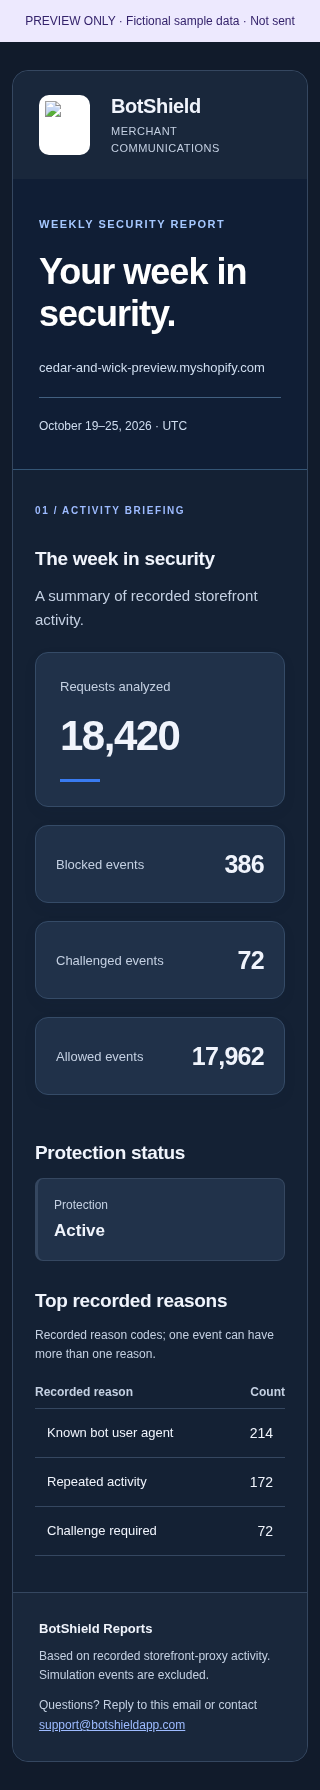
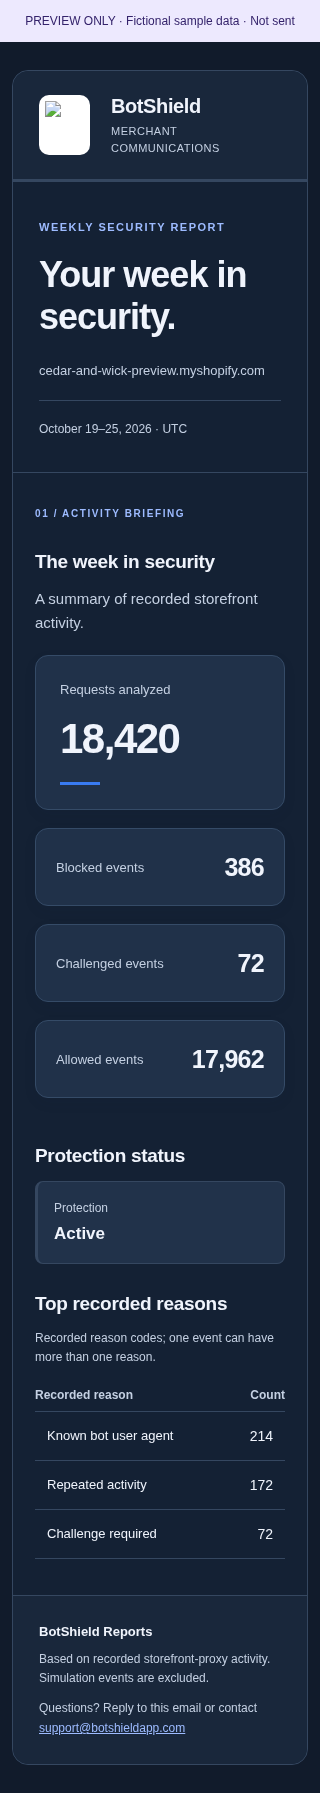
Fix email hero contrast with paired solid-color surfaces

diff --git a/docs/email-previews/weekly.html b/docs/email-previews/weekly.html
@@ -1,15 +1,15 @@
 <!doctype html>
 <html lang="en"><head><meta charset="utf-8"><meta name="viewport" content="width=device-width, initial-scale=1"><meta name="color-scheme" content="light dark"><meta name="supported-color-schemes" content="light dark"><title>Weekly Security Report | BotShield</title>
-<style>@media (prefers-color-scheme:dark){.bs-page{background-color:#111b2b!important}.bs-surface{background-color:#19273b!important}.bs-panel{background-color:#21324a!important}.bs-ink{color:#f0f4fc!important}.bs-muted{color:#c4d0e2!important}.bs-link{color:#9dbbff!important}.bs-pill{background-color:#293d59!important;color:#edf3ff!important}.bs-surface,.bs-panel,.bs-ink,.bs-muted{border-color:#354760!important}.bs-logo{background-color:#ffffff!important}.bs-report,.bs-intro{background-color:#142134!important}.bs-card{background-color:#203149!important;border-color:#354b67!important}.bs-hero{background-color:#101e35!important;background-image:none!important}.bs-hero-title{color:#ffffff!important}.bs-hero-copy{color:#d0def0!important}.bs-hero-label{color:#a6c8ff!important}.bs-severity-high{background-color:#492b30!important;color:#ffd9d3!important}.bs-severity-medium{background-color:#403619!important;color:#ffe4a3!important}.bs-severity-low{background-color:#223b5e!important;color:#d9e6ff!important}}</style></head>
+<style>@media (prefers-color-scheme:dark){.bs-page{background-color:#111b2b!important}.bs-surface{background-color:#19273b!important}.bs-panel{background-color:#21324a!important}.bs-ink{color:#f0f4fc!important}.bs-muted{color:#c4d0e2!important}.bs-link{color:#9dbbff!important}.bs-pill{background-color:#293d59!important;color:#edf3ff!important}.bs-surface,.bs-panel,.bs-ink,.bs-muted{border-color:#354760!important}.bs-logo{background-color:#ffffff!important}.bs-report,.bs-intro{background-color:#142134!important}.bs-card{background-color:#203149!important;border-color:#354b67!important}.bs-hero{background-color:#142134!important;border-color:#354760!important}.bs-severity-high{background-color:#492b30!important;color:#ffd9d3!important}.bs-severity-medium{background-color:#403619!important;color:#ffe4a3!important}.bs-severity-low{background-color:#223b5e!important;color:#d9e6ff!important}}</style></head>
 <body class="bs-page" style="margin:0;padding:0;background-color:#f3f6fa;font-family:Arial,Helvetica,sans-serif;-webkit-text-size-adjust:100%;-ms-text-size-adjust:100%;"><table role="presentation" width="100%" cellpadding="0" cellspacing="0"><tr><td align="center" style="padding:12px;background-color:#ede9fe;color:#34236b;font:12px/18px Arial,sans-serif;">PREVIEW ONLY · Fictional sample data · Not sent</td></tr></table>
 <div style="display:none;max-height:0;overflow:hidden;mso-hide:all;">Your recorded storefront activity, protection status, and top recorded reasons.</div>
 <table role="presentation" width="100%" cellpadding="0" cellspacing="0" bgcolor="#f3f6fa" class="bs-page" style="width:100%;border-collapse:collapse;"><tr><td align="center" style="padding:28px 12px;">
 <!--[if mso]><table role="presentation" width="620" cellpadding="0" cellspacing="0"><tr><td><![endif]-->
 <table role="presentation" width="100%" cellpadding="0" cellspacing="0" class="bs-surface" bgcolor="#ffffff" data-email-template="weekly" style="width:100%;max-width:620px;table-layout:fixed;border:1px solid #e0e7f0;border-radius:16px;border-collapse:separate;">
 <tr><td class="bs-surface" bgcolor="#ffffff" style="padding:22px 26px;border-radius:16px 16px 0 0;"><table role="presentation" width="100%" cellpadding="0" cellspacing="0" style="width:100%;table-layout:fixed;"><tr><td width="60" valign="middle"><table role="presentation" cellpadding="0" cellspacing="0"><tr><td class="bs-logo" bgcolor="#ffffff" style="padding:6px;border-radius:10px;"><img src="https://botshield-backend.onrender.com/botshield-official-logo-transparent.png" width="39" height="48" alt="BotShield logo" style="display:block;width:39px;height:48px;border:0;"></td></tr></table></td><td valign="middle" style="padding-left:12px;word-wrap:break-word;overflow-wrap:anywhere;word-break:break-word;"><p class="bs-ink" style="margin:0;font-family:Arial,Helvetica,sans-serif;font-size:20px;line-height:26px;font-weight:bold;letter-spacing:-0.4px;color:#172b49;">BotShield</p><p class="bs-muted" style="margin:4px 0 0;font-family:Arial,Helvetica,sans-serif;font-size:11px;line-height:17px;letter-spacing:0.5px;color:#53647c;">MERCHANT COMMUNICATIONS</p></td></tr></table></td></tr>
-<tr><td class="bs-hero" bgcolor="#101e35" style="padding:36px 26px 32px;background-image:linear-gradient(125deg,#101e35 25%,#183a61 100%);border-bottom:1px solid #345575;word-wrap:break-word;overflow-wrap:anywhere;word-break:break-word;"><p class="bs-hero-label" style="margin:0 0 18px;font-family:Arial,Helvetica,sans-serif;font-size:11px;line-height:18px;font-weight:bold;letter-spacing:1.5px;color:#a6c8ff;text-transform:uppercase;">Weekly Security Report</p><h1 class="bs-hero-title" style="margin:0 0 22px;font-family:Arial,Helvetica,sans-serif;font-size:36px;line-height:42px;letter-spacing:-1px;color:#ffffff;word-wrap:break-word;overflow-wrap:anywhere;word-break:break-word;">Your week in security.</h1>
-<p class="bs-hero-copy" style="margin:0;font-family:Arial,Helvetica,sans-serif;font-size:13px;line-height:22px;color:#d0def0;word-wrap:break-word;overflow-wrap:anywhere;word-break:break-word;">cedar-and-wick-preview.myshopify.com</p>
-<p class="bs-hero-copy" style="margin:18px 0 0;padding-top:18px;border-top:1px solid #426080;font-family:Arial,Helvetica,sans-serif;font-size:12px;line-height:21px;color:#d0def0;word-wrap:break-word;overflow-wrap:anywhere;word-break:break-word;">October 19–25, 2026 · UTC</p></td></tr>
+<tr><td class="bs-hero" bgcolor="#f1f4f8" style="padding:36px 26px 32px;background-color:#f1f4f8;border-top:3px solid #397bf1;border-bottom:1px solid #e5eaf1;word-wrap:break-word;overflow-wrap:anywhere;word-break:break-word;"><p class="bs-link" style="margin:0 0 18px;font-family:Arial,Helvetica,sans-serif;font-size:11px;line-height:18px;font-weight:bold;letter-spacing:1.5px;color:#245bdb;text-transform:uppercase;">Weekly Security Report</p><h1 class="bs-ink" style="margin:0 0 22px;font-family:Arial,Helvetica,sans-serif;font-size:36px;line-height:42px;letter-spacing:-1px;color:#172b49;word-wrap:break-word;overflow-wrap:anywhere;word-break:break-word;">Your week in security.</h1>
+<p class="bs-muted" style="margin:0;font-family:Arial,Helvetica,sans-serif;font-size:13px;line-height:22px;color:#53647c;word-wrap:break-word;overflow-wrap:anywhere;word-break:break-word;">cedar-and-wick-preview.myshopify.com</p>
+<p class="bs-muted" style="margin:18px 0 0;padding-top:18px;border-top:1px solid #d6dfeb;font-family:Arial,Helvetica,sans-serif;font-size:12px;line-height:21px;color:#53647c;word-wrap:break-word;overflow-wrap:anywhere;word-break:break-word;">October 19–25, 2026 · UTC</p></td></tr>
 <tr><td class="bs-report" bgcolor="#f1f4f8" style="padding:32px 22px 36px;word-wrap:break-word;overflow-wrap:anywhere;word-break:break-word;">
 <p class="bs-link" style="margin:0 0 10px;font-family:Arial,Helvetica,sans-serif;font-size:10px;line-height:17px;letter-spacing:1.6px;font-weight:bold;color:#245bdb;">01 / ACTIVITY BRIEFING</p><h2 class="bs-ink" style="margin:26px 0 12px;font-family:Arial,Helvetica,sans-serif;font-size:19px;line-height:27px;letter-spacing:-0.3px;color:#172b49;">The week in security</h2><p class="bs-muted" style="margin:0 0 20px;font-family:Arial,Helvetica,sans-serif;font-size:15px;line-height:24px;color:#53647c;word-wrap:break-word;overflow-wrap:anywhere;word-break:break-word;">A summary of recorded storefront activity.</p><table role="presentation" width="100%" cellpadding="0" cellspacing="0" style="width:100%;table-layout:fixed;border-collapse:collapse;"><tr><td style="padding:0 0 18px;"><table data-metric="Requests analyzed" role="presentation" width="100%" cellpadding="0" cellspacing="0" class="bs-card" bgcolor="#ffffff" style="width:100%;table-layout:fixed;border:1px solid #e1e7ef;border-radius:13px;box-shadow:0 5px 14px rgba(20,42,72,0.06);border-collapse:separate;"><tr><td style="padding:24px;word-wrap:break-word;overflow-wrap:anywhere;word-break:break-word;"><p class="bs-muted" style="margin:0 0 14px;font-family:Arial,Helvetica,sans-serif;font-size:13px;line-height:20px;color:#53647c;">Requests analyzed</p><p class="bs-ink" style="margin:0;font-family:Arial,Helvetica,sans-serif;font-size:42px;line-height:50px;font-weight:bold;letter-spacing:-1.5px;color:#172b49;word-break:break-all;">18,420</p><table role="presentation" width="40" cellpadding="0" cellspacing="0" style="width:40px;margin-top:18px;"><tr><td height="3" bgcolor="#397bf1" style="height:3px;font-size:0;line-height:0;">&nbsp;</td></tr></table></td></tr></table></td></tr><tr><td style="padding:0 0 18px;"><table data-metric="Blocked events" role="presentation" width="100%" cellpadding="0" cellspacing="0" class="bs-card" bgcolor="#ffffff" style="width:100%;table-layout:fixed;border:1px solid #e1e7ef;border-radius:13px;box-shadow:0 5px 14px rgba(20,42,72,0.06);border-collapse:separate;"><tr><td width="47%" valign="middle" style="padding:22px 8px 22px 20px;word-wrap:break-word;overflow-wrap:anywhere;word-break:break-word;"><p class="bs-muted" style="margin:0;font-family:Arial,Helvetica,sans-serif;font-size:13px;line-height:21px;color:#53647c;">Blocked events</p></td><td valign="middle" align="right" style="padding:22px 20px 22px 4px;word-wrap:break-word;overflow-wrap:anywhere;word-break:break-word;"><p class="bs-ink" style="margin:0;font-family:Arial,Helvetica,sans-serif;font-size:25px;line-height:32px;font-weight:bold;letter-spacing:-0.7px;color:#172b49;word-break:break-all;">386</p></td></tr></table></td></tr><tr><td style="padding:0 0 18px;"><table data-metric="Challenged events" role="presentation" width="100%" cellpadding="0" cellspacing="0" class="bs-card" bgcolor="#ffffff" style="width:100%;table-layout:fixed;border:1px solid #e1e7ef;border-radius:13px;box-shadow:0 5px 14px rgba(20,42,72,0.06);border-collapse:separate;"><tr><td width="47%" valign="middle" style="padding:22px 8px 22px 20px;word-wrap:break-word;overflow-wrap:anywhere;word-break:break-word;"><p class="bs-muted" style="margin:0;font-family:Arial,Helvetica,sans-serif;font-size:13px;line-height:21px;color:#53647c;">Challenged events</p></td><td valign="middle" align="right" style="padding:22px 20px 22px 4px;word-wrap:break-word;overflow-wrap:anywhere;word-break:break-word;"><p class="bs-ink" style="margin:0;font-family:Arial,Helvetica,sans-serif;font-size:25px;line-height:32px;font-weight:bold;letter-spacing:-0.7px;color:#172b49;word-break:break-all;">72</p></td></tr></table></td></tr><tr><td style="padding:0 0 18px;"><table data-metric="Allowed events" role="presentation" width="100%" cellpadding="0" cellspacing="0" class="bs-card" bgcolor="#ffffff" style="width:100%;table-layout:fixed;border:1px solid #e1e7ef;border-radius:13px;box-shadow:0 5px 14px rgba(20,42,72,0.06);border-collapse:separate;"><tr><td width="47%" valign="middle" style="padding:22px 8px 22px 20px;word-wrap:break-word;overflow-wrap:anywhere;word-break:break-word;"><p class="bs-muted" style="margin:0;font-family:Arial,Helvetica,sans-serif;font-size:13px;line-height:21px;color:#53647c;">Allowed events</p></td><td valign="middle" align="right" style="padding:22px 20px 22px 4px;word-wrap:break-word;overflow-wrap:anywhere;word-break:break-word;"><p class="bs-ink" style="margin:0;font-family:Arial,Helvetica,sans-serif;font-size:25px;line-height:32px;font-weight:bold;letter-spacing:-0.7px;color:#172b49;word-break:break-all;">17,962</p></td></tr></table></td></tr></table><h2 class="bs-ink" style="margin:26px 0 12px;font-family:Arial,Helvetica,sans-serif;font-size:19px;line-height:27px;letter-spacing:-0.3px;color:#172b49;">Protection status</h2><table role="presentation" width="100%" cellpadding="0" cellspacing="0" class="bs-panel" bgcolor="#ffffff" style="width:100%;border:1px solid #e1e7ef;border-left:3px solid #138575;border-radius:8px;"><tr><td style="padding:17px 16px;"><p class="bs-muted" style="margin:0 0 5px;font-family:Arial,Helvetica,sans-serif;font-size:12px;line-height:18px;color:#53647c;">Protection</p><p class="bs-ink" style="margin:0;font-family:Arial,Helvetica,sans-serif;font-size:17px;line-height:24px;font-weight:bold;color:#172b49;">Active</p></td></tr></table><h2 class="bs-ink" style="margin:26px 0 12px;font-family:Arial,Helvetica,sans-serif;font-size:19px;line-height:27px;letter-spacing:-0.3px;color:#172b49;">Top recorded reasons</h2><table width="100%" cellpadding="0" cellspacing="0" style="width:100%;table-layout:fixed;border-collapse:collapse;"><caption class="bs-muted" style="text-align:left;padding-bottom:12px;font-family:Arial,Helvetica,sans-serif;font-size:12px;line-height:19px;color:#53647c;">Recorded reason codes; one event can have more than one reason.</caption><thead><tr><th class="bs-muted" align="left" scope="col" style="padding:9px 0;border-bottom:1px solid #e5eaf1;font-family:Arial,Helvetica,sans-serif;font-size:12px;color:#53647c;">Recorded reason</th><th class="bs-muted" align="right" width="70" scope="col" style="padding:9px 0;border-bottom:1px solid #e5eaf1;font-family:Arial,Helvetica,sans-serif;font-size:12px;color:#53647c;">Count</th></tr></thead><tbody><tr><td class="bs-ink" style="padding:14px 12px;border-bottom:1px solid #e5eaf1;font-family:Arial,Helvetica,sans-serif;font-size:13px;line-height:20px;color:#172b49;word-wrap:break-word;overflow-wrap:anywhere;word-break:break-word;">Known bot user agent</td><td class="bs-ink" align="right" style="padding:14px 12px;border-bottom:1px solid #e5eaf1;font-family:Arial,Helvetica,sans-serif;font-size:14px;color:#172b49;word-break:break-all;">214</td></tr><tr><td class="bs-ink" style="padding:14px 12px;border-bottom:1px solid #e5eaf1;font-family:Arial,Helvetica,sans-serif;font-size:13px;line-height:20px;color:#172b49;word-wrap:break-word;overflow-wrap:anywhere;word-break:break-word;">Repeated activity</td><td class="bs-ink" align="right" style="padding:14px 12px;border-bottom:1px solid #e5eaf1;font-family:Arial,Helvetica,sans-serif;font-size:14px;color:#172b49;word-break:break-all;">172</td></tr><tr><td class="bs-ink" style="padding:14px 12px;border-bottom:1px solid #e5eaf1;font-family:Arial,Helvetica,sans-serif;font-size:13px;line-height:20px;color:#172b49;word-wrap:break-word;overflow-wrap:anywhere;word-break:break-word;">Challenge required</td><td class="bs-ink" align="right" style="padding:14px 12px;border-bottom:1px solid #e5eaf1;font-family:Arial,Helvetica,sans-serif;font-size:14px;color:#172b49;word-break:break-all;">72</td></tr></tbody></table></td></tr>
 <tr><td class="bs-surface" bgcolor="#ffffff" style="padding:26px;border-top:1px solid #e1e7ef;border-radius:0 0 16px 16px;word-wrap:break-word;overflow-wrap:anywhere;word-break:break-word;"><p class="bs-ink" style="margin:0 0 8px;font-family:Arial,Helvetica,sans-serif;font-size:13px;line-height:20px;font-weight:bold;color:#172b49;">BotShield Reports</p><p class="bs-muted" style="margin:0 0 10px;font-family:Arial,Helvetica,sans-serif;font-size:12px;line-height:19px;color:#53647c;">Based on recorded storefront-proxy activity. Simulation events are excluded.</p><p class="bs-muted" style="margin:0;font-family:Arial,Helvetica,sans-serif;font-size:12px;line-height:20px;color:#53647c;">Questions? Reply to this email or contact<br><a class="bs-link" href="mailto:support@botshieldapp.com" style="color:#245bdb;text-decoration:underline;">support@botshieldapp.com</a></p></td></tr></table>

diff --git a/app/lib/merchant-email-templates.js b/app/lib/merchant-email-templates.js
@@ -55,7 +55,7 @@ function reportPeriod(start, end) {
     return label + " · UTC";
   }
   const stamp = d => new Intl.DateTimeFormat("en-US", { month: "short", day: "numeric", year: "numeric", hour: "2-digit", minute: "2-digit", ...(d.getUTCSeconds() || d.getUTCMilliseconds() ? { second: "2-digit" } : {}), ...(d.getUTCMilliseconds() ? { fractionalSecondDigits: 3 } : {}), hourCycle: "h23", timeZone: "UTC" }).format(d);
-  return `${stamp(a)} – ${stamp(b)} · UTC (cutoff excluded)`;
+  return `${stamp(a)} – ${stamp(b)} · UTC (end time not included)`;
 }
 
 function detailRows(rows) {
@@ -67,12 +67,15 @@ function layout({ kind, label, title, preheader, shop, body, lines, dashboardUrl
   const url = safeDashboardUrl(dashboardUrl);
   const cta = url ? `<table role="presentation" cellpadding="0" cellspacing="0" style="margin-top:28px;"><tr><td bgcolor="#245bdb" style="border-radius:8px;mso-padding-alt:14px 20px;"><a href="${e(url)}" style="display:inline-block;padding:14px 20px;${font}font-size:14px;line-height:20px;font-weight:bold;color:#ffffff;text-decoration:none;">Open BotShield Overview</a></td></tr></table>` : "";
   const weekly = kind === "weekly";
-  const hero = `<tr><td class="${weekly ? "bs-hero" : "bs-intro"}" bgcolor="${weekly ? "#101e35" : "#f7f9fc"}" style="padding:${weekly ? "36px 26px 32px" : "28px 26px"};${weekly ? "background-image:linear-gradient(125deg,#101e35 25%,#183a61 100%);border-bottom:1px solid #345575;" : "border-bottom:1px solid #e5eaf1;"}${wrap}"><p class="${weekly ? "bs-hero-label" : "bs-link"}" style="margin:0 0 18px;${font}font-size:11px;line-height:18px;font-weight:bold;letter-spacing:1.5px;color:${weekly ? "#a6c8ff" : "#245bdb"};text-transform:uppercase;">${e(label)}</p><h1 class="${weekly ? "bs-hero-title" : "bs-ink"}" style="margin:0 0 22px;${font}font-size:${weekly ? "36" : "28"}px;line-height:${weekly ? "42" : "35"}px;letter-spacing:-1px;color:${weekly ? "#ffffff" : ink};${wrap}">${e(title)}</h1>
-${present(shop) ? `<p class="${weekly ? "bs-hero-copy" : "bs-muted"}" style="margin:0;${font}font-size:13px;line-height:22px;color:${weekly ? "#d0def0" : muted};${wrap}">${e(shop)}</p>` : ""}
-${period ? `<p class="bs-hero-copy" style="margin:18px 0 0;padding-top:18px;border-top:1px solid #426080;${font}font-size:12px;line-height:21px;color:#d0def0;${wrap}">${e(period)}</p>` : ""}</td></tr>`;
+  // Avoid gradient/image backgrounds behind live text: forced-color clients may
+  // transform foregrounds while preserving those backgrounds. Use paired solid
+  // surfaces and standard ink/muted classes; never pin hero text to white.
+  const hero = `<tr><td class="${weekly ? "bs-hero" : "bs-intro"}" bgcolor="#f1f4f8" style="padding:${weekly ? "36px 26px 32px" : "28px 26px"};background-color:#f1f4f8;border-top:3px solid #397bf1;border-bottom:1px solid #e5eaf1;${wrap}"><p class="bs-link" style="margin:0 0 18px;${font}font-size:11px;line-height:18px;font-weight:bold;letter-spacing:1.5px;color:#245bdb;text-transform:uppercase;">${e(label)}</p><h1 class="bs-ink" style="margin:0 0 22px;${font}font-size:${weekly ? "36" : "28"}px;line-height:${weekly ? "42" : "35"}px;letter-spacing:-1px;color:${ink};${wrap}">${e(title)}</h1>
+${present(shop) ? `<p class="bs-muted" style="margin:0;${font}font-size:13px;line-height:22px;color:${muted};${wrap}">${e(shop)}</p>` : ""}
+${period ? `<p class="bs-muted" style="margin:18px 0 0;padding-top:18px;border-top:1px solid #d6dfeb;${font}font-size:12px;line-height:21px;color:${muted};${wrap}">${e(period)}</p>` : ""}</td></tr>`;
   const html = `<!doctype html>
 <html lang="en"><head><meta charset="utf-8"><meta name="viewport" content="width=device-width, initial-scale=1"><meta name="color-scheme" content="light dark"><meta name="supported-color-schemes" content="light dark"><title>${e(label)} | BotShield</title>
-<style>@media (prefers-color-scheme:dark){.bs-page{background-color:#111b2b!important}.bs-surface{background-color:#19273b!important}.bs-panel{background-color:#21324a!important}.bs-ink{color:#f0f4fc!important}.bs-muted{color:#c4d0e2!important}.bs-link{color:#9dbbff!important}.bs-pill{background-color:#293d59!important;color:#edf3ff!important}.bs-surface,.bs-panel,.bs-ink,.bs-muted{border-color:#354760!important}.bs-logo{background-color:#ffffff!important}.bs-report,.bs-intro{background-color:#142134!important}.bs-card{background-color:#203149!important;border-color:#354b67!important}.bs-hero{background-color:#101e35!important;background-image:none!important}.bs-hero-title{color:#ffffff!important}.bs-hero-copy{color:#d0def0!important}.bs-hero-label{color:#a6c8ff!important}.bs-severity-high{background-color:#492b30!important;color:#ffd9d3!important}.bs-severity-medium{background-color:#403619!important;color:#ffe4a3!important}.bs-severity-low{background-color:#223b5e!important;color:#d9e6ff!important}}</style></head>
+<style>@media (prefers-color-scheme:dark){.bs-page{background-color:#111b2b!important}.bs-surface{background-color:#19273b!important}.bs-panel{background-color:#21324a!important}.bs-ink{color:#f0f4fc!important}.bs-muted{color:#c4d0e2!important}.bs-link{color:#9dbbff!important}.bs-pill{background-color:#293d59!important;color:#edf3ff!important}.bs-surface,.bs-panel,.bs-ink,.bs-muted{border-color:#354760!important}.bs-logo{background-color:#ffffff!important}.bs-report,.bs-intro{background-color:#142134!important}.bs-card{background-color:#203149!important;border-color:#354b67!important}.bs-hero{background-color:#142134!important;border-color:#354760!important}.bs-severity-high{background-color:#492b30!important;color:#ffd9d3!important}.bs-severity-medium{background-color:#403619!important;color:#ffe4a3!important}.bs-severity-low{background-color:#223b5e!important;color:#d9e6ff!important}}</style></head>
 <body class="bs-page" style="margin:0;padding:0;background-color:#f3f6fa;${font}-webkit-text-size-adjust:100%;-ms-text-size-adjust:100%;">
 <div style="display:none;max-height:0;overflow:hidden;mso-hide:all;">${e(preheader)}</div>
 <table role="presentation" width="100%" cellpadding="0" cellspacing="0" bgcolor="#f3f6fa" class="bs-page" style="width:100%;border-collapse:collapse;"><tr><td align="center" style="padding:28px 12px;">

diff --git a/docs/email-previews/test.html b/docs/email-previews/test.html
@@ -1,13 +1,13 @@
 <!doctype html>
 <html lang="en"><head><meta charset="utf-8"><meta name="viewport" content="width=device-width, initial-scale=1"><meta name="color-scheme" content="light dark"><meta name="supported-color-schemes" content="light dark"><title>Test Notification | BotShield</title>
-<style>@media (prefers-color-scheme:dark){.bs-page{background-color:#111b2b!important}.bs-surface{background-color:#19273b!important}.bs-panel{background-color:#21324a!important}.bs-ink{color:#f0f4fc!important}.bs-muted{color:#c4d0e2!important}.bs-link{color:#9dbbff!important}.bs-pill{background-color:#293d59!important;color:#edf3ff!important}.bs-surface,.bs-panel,.bs-ink,.bs-muted{border-color:#354760!important}.bs-logo{background-color:#ffffff!important}.bs-report,.bs-intro{background-color:#142134!important}.bs-card{background-color:#203149!important;border-color:#354b67!important}.bs-hero{background-color:#101e35!important;background-image:none!important}.bs-hero-title{color:#ffffff!important}.bs-hero-copy{color:#d0def0!important}.bs-hero-label{color:#a6c8ff!important}.bs-severity-high{background-color:#492b30!important;color:#ffd9d3!important}.bs-severity-medium{background-color:#403619!important;color:#ffe4a3!important}.bs-severity-low{background-color:#223b5e!important;color:#d9e6ff!important}}</style></head>
+<style>@media (prefers-color-scheme:dark){.bs-page{background-color:#111b2b!important}.bs-surface{background-color:#19273b!important}.bs-panel{background-color:#21324a!important}.bs-ink{color:#f0f4fc!important}.bs-muted{color:#c4d0e2!important}.bs-link{color:#9dbbff!important}.bs-pill{background-color:#293d59!important;color:#edf3ff!important}.bs-surface,.bs-panel,.bs-ink,.bs-muted{border-color:#354760!important}.bs-logo{background-color:#ffffff!important}.bs-report,.bs-intro{background-color:#142134!important}.bs-card{background-color:#203149!important;border-color:#354b67!important}.bs-hero{background-color:#142134!important;border-color:#354760!important}.bs-severity-high{background-color:#492b30!important;color:#ffd9d3!important}.bs-severity-medium{background-color:#403619!important;color:#ffe4a3!important}.bs-severity-low{background-color:#223b5e!important;color:#d9e6ff!important}}</style></head>
 <body class="bs-page" style="margin:0;padding:0;background-color:#f3f6fa;font-family:Arial,Helvetica,sans-serif;-webkit-text-size-adjust:100%;-ms-text-size-adjust:100%;"><table role="presentation" width="100%" cellpadding="0" cellspacing="0"><tr><td align="center" style="padding:12px;background-color:#ede9fe;color:#34236b;font:12px/18px Arial,sans-serif;">PREVIEW ONLY · Fictional sample data · Not sent</td></tr></table>
 <div style="display:none;max-height:0;overflow:hidden;mso-hide:all;">A test of your BotShield email notifications. No security event is represented.</div>
 <table role="presentation" width="100%" cellpadding="0" cellspacing="0" bgcolor="#f3f6fa" class="bs-page" style="width:100%;border-collapse:collapse;"><tr><td align="center" style="padding:28px 12px;">
 <!--[if mso]><table role="presentation" width="620" cellpadding="0" cellspacing="0"><tr><td><![endif]-->
 <table role="presentation" width="100%" cellpadding="0" cellspacing="0" class="bs-surface" bgcolor="#ffffff" data-email-template="test" style="width:100%;max-width:620px;table-layout:fixed;border:1px solid #e0e7f0;border-radius:16px;border-collapse:separate;">
 <tr><td class="bs-surface" bgcolor="#ffffff" style="padding:22px 26px;border-radius:16px 16px 0 0;"><table role="presentation" width="100%" cellpadding="0" cellspacing="0" style="width:100%;table-layout:fixed;"><tr><td width="60" valign="middle"><table role="presentation" cellpadding="0" cellspacing="0"><tr><td class="bs-logo" bgcolor="#ffffff" style="padding:6px;border-radius:10px;"><img src="https://botshield-backend.onrender.com/botshield-official-logo-transparent.png" width="39" height="48" alt="BotShield logo" style="display:block;width:39px;height:48px;border:0;"></td></tr></table></td><td valign="middle" style="padding-left:12px;word-wrap:break-word;overflow-wrap:anywhere;word-break:break-word;"><p class="bs-ink" style="margin:0;font-family:Arial,Helvetica,sans-serif;font-size:20px;line-height:26px;font-weight:bold;letter-spacing:-0.4px;color:#172b49;">BotShield</p><p class="bs-muted" style="margin:4px 0 0;font-family:Arial,Helvetica,sans-serif;font-size:11px;line-height:17px;letter-spacing:0.5px;color:#53647c;">MERCHANT COMMUNICATIONS</p></td></tr></table></td></tr>
-<tr><td class="bs-intro" bgcolor="#f7f9fc" style="padding:28px 26px;border-bottom:1px solid #e5eaf1;word-wrap:break-word;overflow-wrap:anywhere;word-break:break-word;"><p class="bs-link" style="margin:0 0 18px;font-family:Arial,Helvetica,sans-serif;font-size:11px;line-height:18px;font-weight:bold;letter-spacing:1.5px;color:#245bdb;text-transform:uppercase;">Test Notification</p><h1 class="bs-ink" style="margin:0 0 22px;font-family:Arial,Helvetica,sans-serif;font-size:28px;line-height:35px;letter-spacing:-1px;color:#172b49;word-wrap:break-word;overflow-wrap:anywhere;word-break:break-word;">Your BotShield notifications are working.</h1>
+<tr><td class="bs-intro" bgcolor="#f1f4f8" style="padding:28px 26px;background-color:#f1f4f8;border-top:3px solid #397bf1;border-bottom:1px solid #e5eaf1;word-wrap:break-word;overflow-wrap:anywhere;word-break:break-word;"><p class="bs-link" style="margin:0 0 18px;font-family:Arial,Helvetica,sans-serif;font-size:11px;line-height:18px;font-weight:bold;letter-spacing:1.5px;color:#245bdb;text-transform:uppercase;">Test Notification</p><h1 class="bs-ink" style="margin:0 0 22px;font-family:Arial,Helvetica,sans-serif;font-size:28px;line-height:35px;letter-spacing:-1px;color:#172b49;word-wrap:break-word;overflow-wrap:anywhere;word-break:break-word;">Your BotShield notifications are working.</h1>
 <p class="bs-muted" style="margin:0;font-family:Arial,Helvetica,sans-serif;font-size:13px;line-height:22px;color:#53647c;word-wrap:break-word;overflow-wrap:anywhere;word-break:break-word;">cedar-and-wick-preview.myshopify.com</p>
 </td></tr>
 <tr><td class="bs-surface" bgcolor="#ffffff" style="padding:32px 22px 36px;word-wrap:break-word;overflow-wrap:anywhere;word-break:break-word;">

diff --git a/docs/email-previews/alert.html b/docs/email-previews/alert.html
@@ -1,13 +1,13 @@
 <!doctype html>
 <html lang="en"><head><meta charset="utf-8"><meta name="viewport" content="width=device-width, initial-scale=1"><meta name="color-scheme" content="light dark"><meta name="supported-color-schemes" content="light dark"><title>Security Alert | BotShield</title>
-<style>@media (prefers-color-scheme:dark){.bs-page{background-color:#111b2b!important}.bs-surface{background-color:#19273b!important}.bs-panel{background-color:#21324a!important}.bs-ink{color:#f0f4fc!important}.bs-muted{color:#c4d0e2!important}.bs-link{color:#9dbbff!important}.bs-pill{background-color:#293d59!important;color:#edf3ff!important}.bs-surface,.bs-panel,.bs-ink,.bs-muted{border-color:#354760!important}.bs-logo{background-color:#ffffff!important}.bs-report,.bs-intro{background-color:#142134!important}.bs-card{background-color:#203149!important;border-color:#354b67!important}.bs-hero{background-color:#101e35!important;background-image:none!important}.bs-hero-title{color:#ffffff!important}.bs-hero-copy{color:#d0def0!important}.bs-hero-label{color:#a6c8ff!important}.bs-severity-high{background-color:#492b30!important;color:#ffd9d3!important}.bs-severity-medium{background-color:#403619!important;color:#ffe4a3!important}.bs-severity-low{background-color:#223b5e!important;color:#d9e6ff!important}}</style></head>
+<style>@media (prefers-color-scheme:dark){.bs-page{background-color:#111b2b!important}.bs-surface{background-color:#19273b!important}.bs-panel{background-color:#21324a!important}.bs-ink{color:#f0f4fc!important}.bs-muted{color:#c4d0e2!important}.bs-link{color:#9dbbff!important}.bs-pill{background-color:#293d59!important;color:#edf3ff!important}.bs-surface,.bs-panel,.bs-ink,.bs-muted{border-color:#354760!important}.bs-logo{background-color:#ffffff!important}.bs-report,.bs-intro{background-color:#142134!important}.bs-card{background-color:#203149!important;border-color:#354b67!important}.bs-hero{background-color:#142134!important;border-color:#354760!important}.bs-severity-high{background-color:#492b30!important;color:#ffd9d3!important}.bs-severity-medium{background-color:#403619!important;color:#ffe4a3!important}.bs-severity-low{background-color:#223b5e!important;color:#d9e6ff!important}}</style></head>
 <body class="bs-page" style="margin:0;padding:0;background-color:#f3f6fa;font-family:Arial,Helvetica,sans-serif;-webkit-text-size-adjust:100%;-ms-text-size-adjust:100%;"><table role="presentation" width="100%" cellpadding="0" cellspacing="0"><tr><td align="center" style="padding:12px;background-color:#ede9fe;color:#34236b;font:12px/18px Arial,sans-serif;">PREVIEW ONLY · Fictional sample data · Not sent</td></tr></table>
 <div style="display:none;max-height:0;overflow:hidden;mso-hide:all;">Details of a recorded BotShield storefront decision.</div>
 <table role="presentation" width="100%" cellpadding="0" cellspacing="0" bgcolor="#f3f6fa" class="bs-page" style="width:100%;border-collapse:collapse;"><tr><td align="center" style="padding:28px 12px;">
 <!--[if mso]><table role="presentation" width="620" cellpadding="0" cellspacing="0"><tr><td><![endif]-->
 <table role="presentation" width="100%" cellpadding="0" cellspacing="0" class="bs-surface" bgcolor="#ffffff" data-email-template="alert" style="width:100%;max-width:620px;table-layout:fixed;border:1px solid #e0e7f0;border-radius:16px;border-collapse:separate;">
 <tr><td class="bs-surface" bgcolor="#ffffff" style="padding:22px 26px;border-radius:16px 16px 0 0;"><table role="presentation" width="100%" cellpadding="0" cellspacing="0" style="width:100%;table-layout:fixed;"><tr><td width="60" valign="middle"><table role="presentation" cellpadding="0" cellspacing="0"><tr><td class="bs-logo" bgcolor="#ffffff" style="padding:6px;border-radius:10px;"><img src="https://botshield-backend.onrender.com/botshield-official-logo-transparent.png" width="39" height="48" alt="BotShield logo" style="display:block;width:39px;height:48px;border:0;"></td></tr></table></td><td valign="middle" style="padding-left:12px;word-wrap:break-word;overflow-wrap:anywhere;word-break:break-word;"><p class="bs-ink" style="margin:0;font-family:Arial,Helvetica,sans-serif;font-size:20px;line-height:26px;font-weight:bold;letter-spacing:-0.4px;color:#172b49;">BotShield</p><p class="bs-muted" style="margin:4px 0 0;font-family:Arial,Helvetica,sans-serif;font-size:11px;line-height:17px;letter-spacing:0.5px;color:#53647c;">MERCHANT COMMUNICATIONS</p></td></tr></table></td></tr>
-<tr><td class="bs-intro" bgcolor="#f7f9fc" style="padding:28px 26px;border-bottom:1px solid #e5eaf1;word-wrap:break-word;overflow-wrap:anywhere;word-break:break-word;"><p class="bs-link" style="margin:0 0 18px;font-family:Arial,Helvetica,sans-serif;font-size:11px;line-height:18px;font-weight:bold;letter-spacing:1.5px;color:#245bdb;text-transform:uppercase;">Security Alert</p><h1 class="bs-ink" style="margin:0 0 22px;font-family:Arial,Helvetica,sans-serif;font-size:28px;line-height:35px;letter-spacing:-1px;color:#172b49;word-wrap:break-word;overflow-wrap:anywhere;word-break:break-word;">A request needs verification.</h1>
+<tr><td class="bs-intro" bgcolor="#f1f4f8" style="padding:28px 26px;background-color:#f1f4f8;border-top:3px solid #397bf1;border-bottom:1px solid #e5eaf1;word-wrap:break-word;overflow-wrap:anywhere;word-break:break-word;"><p class="bs-link" style="margin:0 0 18px;font-family:Arial,Helvetica,sans-serif;font-size:11px;line-height:18px;font-weight:bold;letter-spacing:1.5px;color:#245bdb;text-transform:uppercase;">Security Alert</p><h1 class="bs-ink" style="margin:0 0 22px;font-family:Arial,Helvetica,sans-serif;font-size:28px;line-height:35px;letter-spacing:-1px;color:#172b49;word-wrap:break-word;overflow-wrap:anywhere;word-break:break-word;">A request needs verification.</h1>
 <p class="bs-muted" style="margin:0;font-family:Arial,Helvetica,sans-serif;font-size:13px;line-height:22px;color:#53647c;word-wrap:break-word;overflow-wrap:anywhere;word-break:break-word;">cedar-and-wick-preview.myshopify.com</p>
 </td></tr>
 <tr><td class="bs-surface" bgcolor="#ffffff" style="padding:32px 22px 36px;word-wrap:break-word;overflow-wrap:anywhere;word-break:break-word;">

diff --git a/docs/email-previews/README.md b/docs/email-previews/README.md
@@ -10,11 +10,11 @@
 
 ## Design and scope
 
-The weekly briefing pairs a clean official-logo masthead with a dedicated navy hero, larger editorial headline, store identity and reporting window. A numbered activity section introduces a prominent analyzed total and three independent, full-width statistic surfaces. Every metric has its own table, generous padding, 18px separation, restrained border and optional soft shadow. The weekly palette is neutral with one brand-blue highlight; green is reserved for actual active protection. A separate protection panel, quiet reason table and white footer complete the report.
+The weekly briefing pairs a clean official-logo masthead with a solid neutral hero, larger editorial headline, store identity and reporting window. A numbered activity section introduces a prominent analyzed total and three independent, full-width statistic surfaces. Every metric has its own table, generous padding, 18px separation, restrained border and optional soft shadow. The weekly palette is neutral with one brand-blue highlight; green is reserved for actual active protection. A separate protection panel, quiet reason table and white footer complete the report.
 
 Alerts use a shorter light introduction, actual severity badge and structured incident details. Test notifications use the same masthead with a simple non-incident confirmation. Real recorded actions and severity remain authoritative.
 
-Static gradient, shadow and highlight treatments are progressive enhancements only. Solid `bgcolor` fallbacks, table spacing, inline text styles and borders remain usable when effects or embedded CSS are removed. There is no animation, GIF, JavaScript, tracking asset, added image, external font, stylesheet or dependency. Outlook may show square corners and no shadow/gradient; the information hierarchy and independent card spacing remain intact.
+Shadow and highlight treatments are progressive enhancements only. Hero gradients and image backgrounds are deliberately absent. Solid `bgcolor` fallbacks, table spacing, inline text styles and borders remain usable when effects or embedded CSS are removed. There is no animation, GIF, JavaScript, tracking asset, added image, external font, stylesheet or dependency. Outlook may show square corners and no shadow/gradient; the information hierarchy and independent card spacing remain intact.
 
 Runtime changes are confined to `app/lib/merchant-email-templates.js`. Sender/Reply-To, subjects, recipients, Resend transport, preferences, schedules, cooldowns, report calculations, security, database, Shopify configuration, marketing and all application UI remain untouched. Outgoing unverified dashboard CTAs remain omitted in HTML and plain text.
 
@@ -22,7 +22,7 @@ Runtime changes are confined to `app/lib/merchant-email-templates.js`. Sender/Re
 
 Date formatting affects presentation only, with the same output in HTML and plain text. Exact UTC-midnight windows display only included calendar dates: October 19 through the exclusive October 27 midnight cutoff displays **October 19–26, 2026 · UTC**. Cross-month/year windows and single-day windows are covered by tests.
 
-Rolling/partial windows retain exact times (including seconds/milliseconds where present) and a short **cutoff excluded** note. This necessary fallback preserves the existing inclusive-start/exclusive-end query boundaries without implying that partial days were full calendar days. The awkward “before” phrasing is removed. No timestamps, query boundaries or reporting calculations changed.
+Rolling/partial windows retain exact times (including seconds/milliseconds where present) and a short **end time not included** note. This necessary fallback preserves the existing inclusive-start/exclusive-end query boundaries without implying that partial days were full calendar days. The awkward “before” phrasing is removed. No timestamps, query boundaries or reporting calculations changed.
 
 Scheduled and manual reports continue through the same `sendWeeklySecurityReport` service and pass the actual report builder's `periodStart` / `periodEnd` to the renderer. Regression tests verify real builder-to-mocked-delivery pass-through, synchronized text/HTML dates and nonmutation.
 
@@ -38,7 +38,7 @@ Unchanged sender: **BotShield Reports <reports@botshieldapp.com>**. Unchanged Re
 
 ## Validation
 
-- 480 automated tests passed, including 21 focused renderer/mocked sender tests.
+- 481 automated tests passed, including 22 focused renderer/mocked sender tests.
 - Production build, TypeScript, existing SSR/hydration probes and targeted lint passed.
 - Global lint retains 190 existing errors / 6 warnings; no unrelated cleanup.
 - 32 Chromium checks cover desktop/mobile light/dark, blocked images, long names, large values, zero/missing data, actual severity variants and inline-only solid-color fallbacks. Email-appropriate Axe checks exclude web-page landmark rules (`region`, `landmark-one-main`). See [recorded results](browser-checks.json).
@@ -56,3 +56,16 @@ node --test tests/merchant-email-templates.test.mjs tests/email-sender.test.mjs
 ```
 
 For local screenshots/checks, set `PLAYWRIGHT_MODULE`, `AXE_MODULE` and optionally `CHROMIUM_PATH` to existing external tooling, then run `node scripts/test-merchant-email-previews.mjs`. This loopback-only preview script never imports email delivery, credentials or the database.
+
+
+## Gmail iPhone readability correction
+
+The owner confirmed an actual delivered weekly email had nearly invisible hero text/dates in Gmail iPhone dark mode. The previous markup combined light text with an inline gradient. Forced-color handling can transform live text independently of image-like backgrounds; our Chromium `prefers-color-scheme` previews did not reproduce that client behavior.
+
+The gradient is removed rather than patched with blend modes, text-fill overrides, image text, or Gmail-only selectors. All three hero sections now use an explicit solid light `bgcolor` **and** inline background color, dark navy headings, readable muted copy and standard text classes. Supporting clients receive paired dark backgrounds/light text through the existing media query. The official logo, report composition, independent cards and data remain intact.
+
+`color-scheme: light only` was considered but is not relied upon: current Gmail iOS/version/account support could not be independently established, and it would not provide a cross-client guarantee. Attempts to fetch the Gmail CSS reference, Can I Email color-scheme reference and Litmus dark-mode guide returned HTTP 403 in this environment. Existing `light dark` metadata remains; readable solid-color defaults and optional paired dark styles do not depend on a force-light opt-out.
+
+A regression checks every hero for matching explicit solid backgrounds, standard text classes and absence of gradients/pinned light text, blend modes or text-fill hacks. Browser checks cover light/dark and inline-only fallbacks for all three templates. These are structural and browser checks, **not proof of Gmail's proprietary dark-mode transformations**.
+
+**Required follow-up:** inspect newly delivered messages from this revision in actual Gmail iPhone dark and light mode, including weekly title, label, store and reporting dates, plus alert/test copy. Gmail desktop, Outlook and Apple Mail inbox rendering also remains unverified. No live email was sent for this fix.
